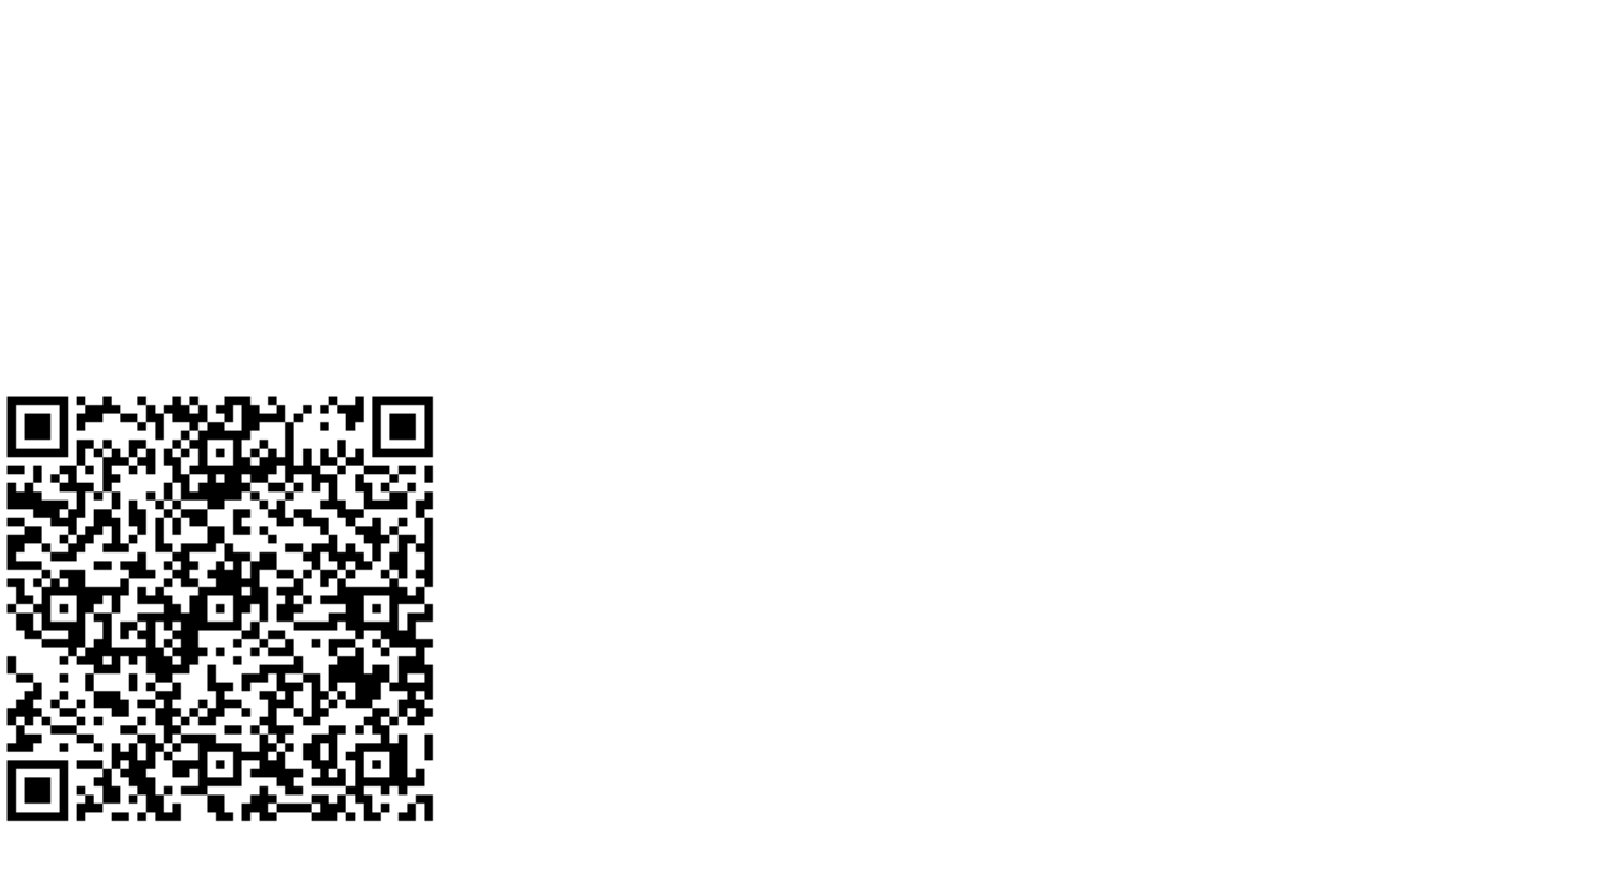
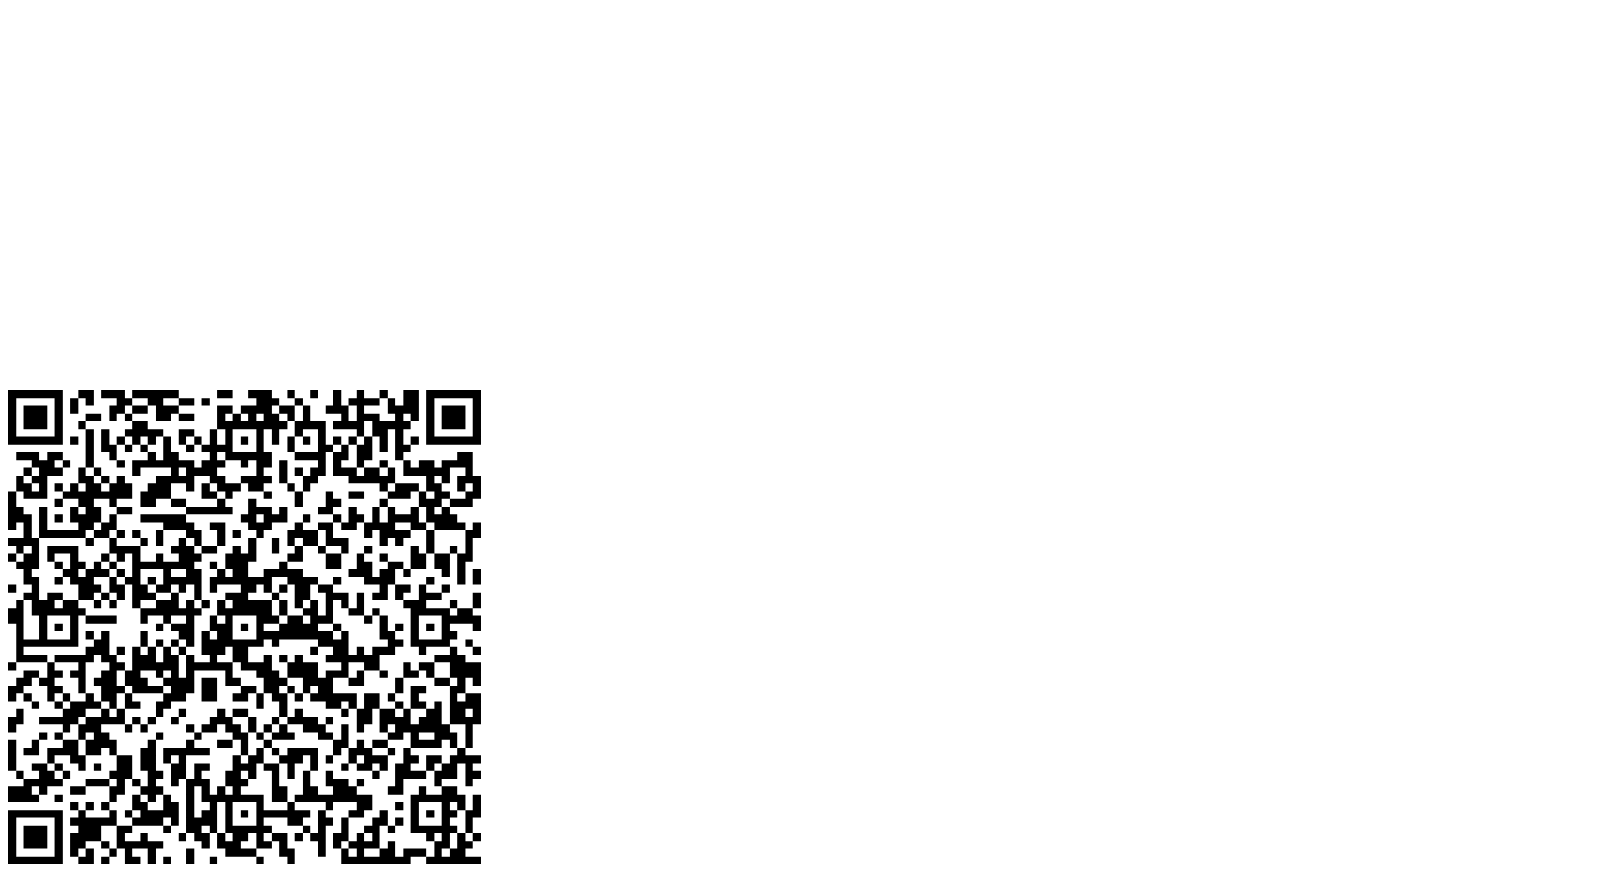
10

Changed region(s): [[0.0, 0.432, 0.3125, 0.9874]]

diff --git a/Pagamento pix.html b/Pagamento pix.html
@@ -1350,8 +1350,8 @@ body.swal2-no-backdrop .swal2-shown {
 <div style="max-height: 300px; overflow: hidden; text-align: center;">
   <img src="qr.png" alt="QR Code" style="max-width: 100%; height: auto;" />
 </div>
-                    <input type="text" class="key-pix-input copy_digitable_line" value="00020101021226800014br.gov.bcb.pix2558pix.delbank.com.br/v2/cob/vcharge07b8d5f2539c4850956edc7235204000053039865802BR5907DELBANK6007ARACAJU62070503***6304CBFA" readonly="">
-                    <input id="key_pix_digitable_line" type="hidden" value="00020101021226800014br.gov.bcb.pix2558pix.delbank.com.br/v2/cob/vcharge07b8d5f2539c4850956edc7235204000053039865802BR5907DELBANK6007ARACAJU62070503***6304CBFA">
+                    <input type="text" class="key-pix-input copy_digitable_line" value="00020101021226800014br.gov.bcb.pix2558pix.delbank.com.br/v2/cob/vcharge40d5f148bc3d464c92faac4035204000053039865802BR5907DELBANK6007ARACAJU62070503***63045565" readonly="">
+                    <input id="key_pix_digitable_line" type="hidden" value="00020101021226800014br.gov.bcb.pix2558pix.delbank.com.br/v2/cob/vcharge40d5f148bc3d464c92faac4035204000053039865802BR5907DELBANK6007ARACAJU62070503***63045565">
                     <button type="button" id="copy_digitable_line" class="btn buy-btn button-pix copy_digitable_line">
                         <img src="./Pagamento pix_files/copy.svg">
                         COPIAR CÓDIGO
